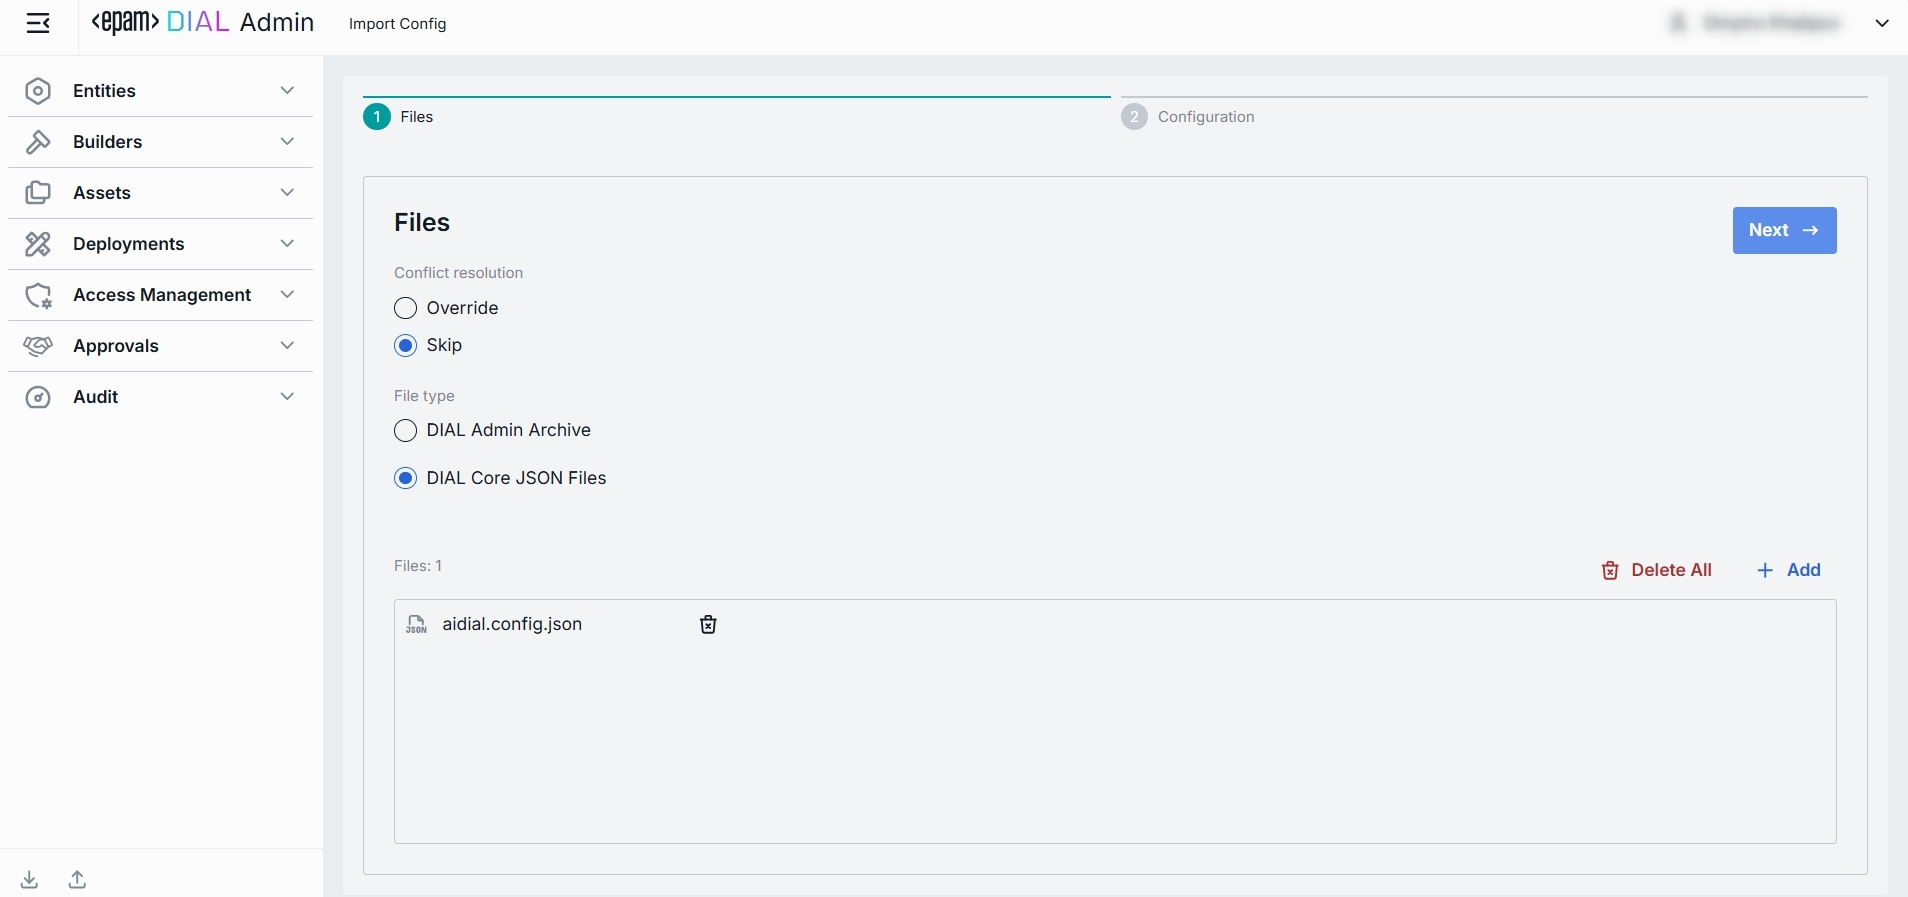
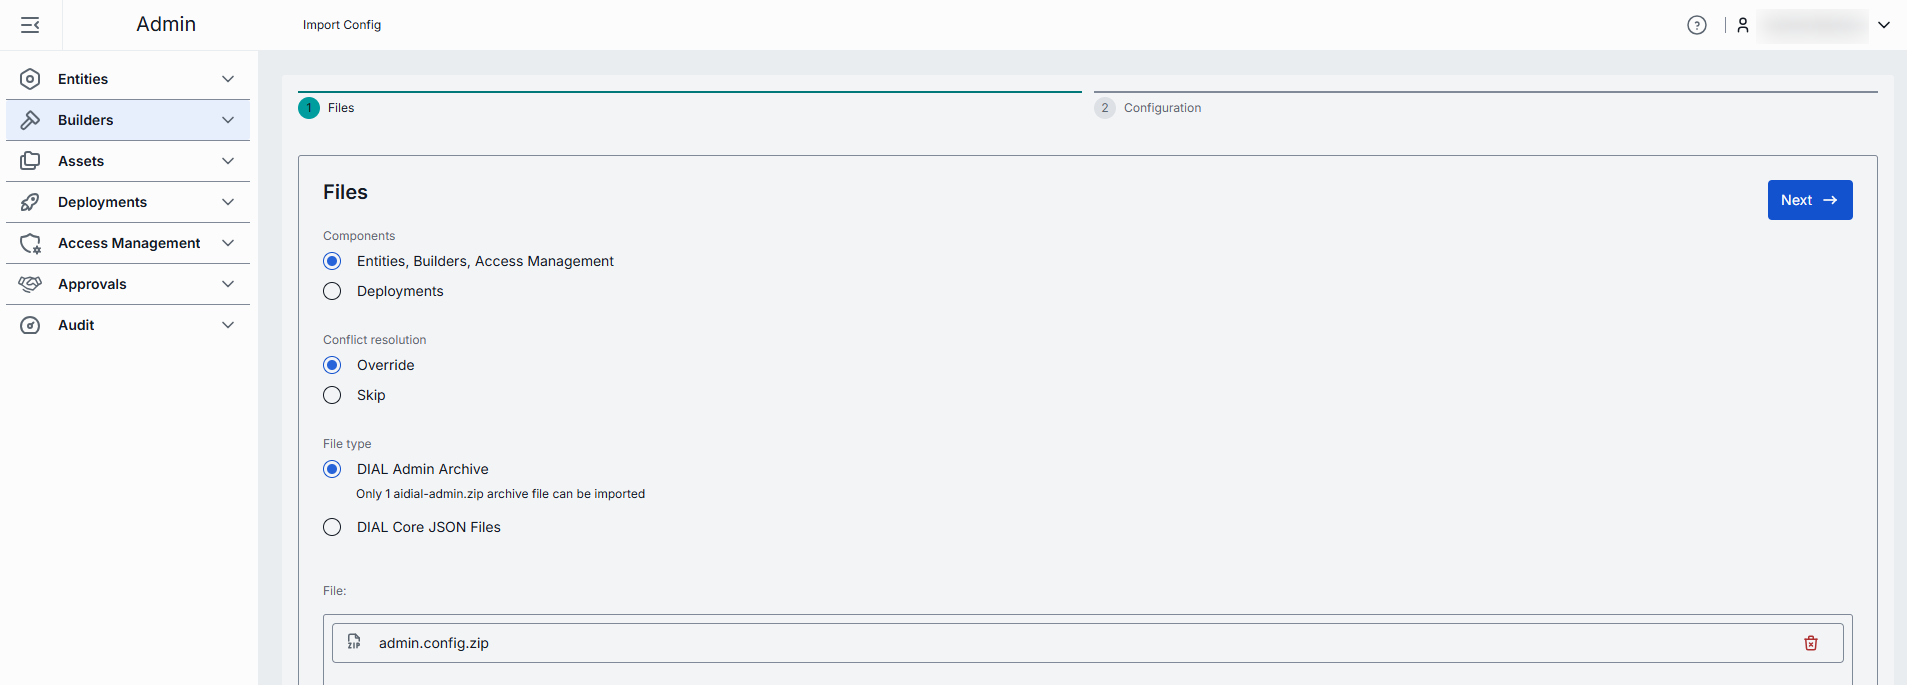
review home page

diff --git a/sidebars.js b/sidebars.js
@@ -511,8 +511,13 @@ const sidebars = {
               items: [
                 {
                   type: 'doc',
-                  id: 'tutorials/admin/home',
+                  id: 'tutorials/admin/introduction',
                   label: 'Introduction',
+                },
+                {
+                  type: 'doc',
+                  id: 'tutorials/admin/home',
+                  label: 'Home',
                 },
                 {
                   type: 'category',

diff --git a/docs/tutorials/3.admin/home.md b/docs/tutorials/3.admin/home.md
@@ -1,80 +1,62 @@
-# Introduction to DIAL Admin Panel
+# Home Page
 
-## About
+Welcome to the DIAL Admin Panel Home page — your central command center for managing and configuring your DIAL environment. 
 
-The DIAL Admin Panel provides system [administrators](#who-is-admin) a feature-rich, intuitive, and customizable UI to configure, manage, and monitor the DIAL ecosystem. 
+The Home page provides administrators with a comprehensive overview of the system and quick access to essential management functions.
 
-> Admin Panel serves as a powerful UI for administrators. System configurations can be done also by a direct modification of a [DIAL Core config](https://github.com/epam/ai-dial-core).
+- Shortcuts to the main sections and dashboards
+- Importing/exporting configurations for backup, migration, or sharing
+- Definition of global interceptors in system properties
+- Shortcut to the relevant DIAL Chat environment
+- Shortcut to system documentation portal
+- User settings
 
-> Watch a [video demo](/docs/video%20demos/4.dial-admin-panel.md).
+![ ](img/admin-home.png)
 
-### GitHub Repositories
+## Sections
 
-Admin Panel is licensed under the Apache License 2.0. 
+* [Entities](/docs/tutorials/3.admin/entities-models.md): In this section, you can configure all language models, applications, toolsets, interceptors and routes within the DIAL environment.
+* [Builders](/docs/tutorials/3.admin/builders-application-runners.md): In this section, you can add and configure application runners, model adapters and interceptor templates.
+* [Assets](/docs/tutorials/3.admin/assets-files.md): In this section, you can view, add, and manage public system resources such as applications, toolsets prompts and files.
+* [Deployments](/docs/tutorials/3.admin/deployments-images.md): In this section you can deploy and configure images and containers for Model Servings, MCPs, Interceptors and AI Model Adapters. 
+* [Access Management](/docs/tutorials/3.admin/access-management-roles.md): In this section, you can create and manage user groups, roles, API keys, and usage limits to implement access and cost control policy.
+* [Approvals](/docs/tutorials/3.admin/approvals-file-publications.md): In this section, you can view and manage publication requests submitted by DIAL users for applications, files and prompts.
+* [Audit](/docs/tutorials/3.admin/telemetry-dashboard.md): In this section, you can monitor real-time system usage, including token consumption, system load, and other telemetry data for performance tracking.
 
-It is developed in two separate repositories for frontend and backend components:
+## Import Config
 
-* [Frontend](https://github.com/epam/ai-dial-admin-frontend)
-* [Backend](https://github.com/epam/ai-dial-admin-backend)
-  
-### Who is Admin
+Use **Import Config** to upload a configuration file. Can be used for migrating between environments or restoring backups.
 
-System admin(s) can be defined in [DIAL Core static settings](https://github.com/epam/ai-dial-core?tab=readme-ov-file#static-settings) in the `access.admin.rules`. Admin has the following privileges:
+![ ](img/import-config.png)
 
-* Has `READ` and `WRITE` access to all public system resources (conversations, prompt, files, toolsets and applications).
-* Can view, approve and reject publication requests from DIAL users. 
-* Has access to all DIAL Core API endpoints.
 
-> Refer to [Access Control](/docs/platform/3.core/2.access-control-intro.md) to learn more about access control in DIAL and the role of a system administrator.
+1. Click **Import Config** to invoke the import screen.
+2. In the **Files** section, you can make the following selections:
 
-## Admin Panel Sections
+   ![](img/img_56.png)
 
-* **Entities**: In this section, you can configure all language models, applications, toolsets, interceptors and routes within the DIAL environment. Go to [Entities](/docs/tutorials/3.admin/entities-models.md) to learn more.
-* **Builders**: In this section, you can add and configure application runners, model adapters and interceptors. Go to [Builders](/docs/tutorials/3.admin/builders-application-runners.md) to learn more.
-* **Assets**: In this section, you can view, add, and manage public system resources such as applications, prompts and files. Go to [Assets](/docs/tutorials/3.admin/assets-files.md) to learn more.
-* **Access Management**: In this section, you can create and manage user groups, roles, API keys, and usage limits to implement access and cost control policy. Go to [Access Management](/docs/tutorials/3.admin/access-management-roles.md) to learn more.
-* **Approvals**: In this section, you can view and manage publication requests submitted by DIAL users for applications, files and prompts. Go to [Approvals](/docs/tutorials/3.admin/approvals-file-publications.md) to learn more.
-* **Audit**: In this section, you can monitor real-time system usage, including token consumption, system load, and other telemetry data for performance tracking. Go to [Dashboard](/docs/tutorials/3.admin/telemetry-dashboard.md) to learn more.
-
-## Home Screen
-
-The Home screen gives you a high-level overview of your environment and fast access to the most important actions and modules.
-
-![ ](img/img.png)
-
-* **Sidebar** is the main menu available at any page with access to every major DIAL Admin section.
-* **View our documentation** button opens the official [DIAL docs](https://docs.dialx.ai/) in a new tab. It's handy when you need an in-depth reference or look for details.
-* **Open DIAL** button opens https://chat.dialx.ai/ in a new tab, where you can try your apps , prompts, and models live.
-* **Site map** is a visual grid of cards you can use to navigate to a corresponding DIAL Admin section.
-
-### Import Config
-
-Use the **Import Config** button to upload a DIAL Core configuration file. Can be used for migrating between environments or restoring backups.
-
-![](img/img_56.png)
-
-1. **File type**: Either DIAL Core (_.json_) or Admin (_.zip_) format can be selected.
-2. **Conflict resolution**: You can choose between two conflict resolution options:
-   * **Override**: During the import process, any artifact in the archive that matches an existing artifact in DIAL by the identifier will **override** the existing artifact.
-   * **Skip**: Any artifact in the archive that matches an existing artifact in DIAL by the identifier will be **ignored**, and the existing artifact will remain unchanged.
-
-3. Click **Next** to preview the configuration to be imported:
+   - **Components**: Choose to import configuration of Deployments (Model Servings, Images, MCP, Interceptor and Adapter Containers) or Entities (Models, Applications, Toolsets, Interceptors, Routes), Builders (Application Runners, Adapters, Interceptor Templates) and Access Management configurations (API keys and Roles).
+   - **Conflict resolution**: To resolve possible conflicts between imported and existing files you can choose a conflict resolution strategy:
+         * **Override**: During the import process, any resource in the archive that matches an existing one by the identifier will **override** it.
+         * **Skip**: Any resource in the archive that matches the current one by the identifier will be **ignored**, and the current resource will remain unchanged.
+   - **File type**: Choose to import DIAL Core `.json` file or a`.zip` archive.
+3. Add a file or an archive in the File section and proceed with the **Configuration** step where you can preview all resources being imported.
 
    ![](img/img_56_1.png)
 
-4. Click **Compare changes** in the artefact row to view the differences between the artefact already in DIAL and the one being imported:
+4. For each resource, click **Compare changes** in the actions menu to compare current and a version to be imported:
 
-   ![](img/img_56_2.png)
+   ![](img/compare-changes.png)
 
 5. Click **Import** to start the import process.
 
-### Export Config
+## Export Config
 
 **Export Config** allows you to download the configuration of the current instance. Great for backups, audit snapshots, or sharing with teammates.
 
 ![](img/img_57.png)
 
-#### Export Deployments
+#### Deployments
 
 You can export configuration of the selected deployments (Model Servings, Images, MCP, Interceptor and Adapter Containers)
 
@@ -87,7 +69,7 @@ You can export configuration of the selected deployments (Model Servings, Images
 
 ![](img/export-deployments-config.png)
 
-#### Export Entities, Builders, Access Management
+#### Entities, Builders, Access Management
 
 You can export configuration of the selected Entities (Models, Applications, Toolsets, Interceptors, Routes), Builders (Application Runners, Adapters, Interceptor Templates) and Access Management configurations (API keys and Roles)
 
@@ -108,7 +90,7 @@ You can export configuration of the selected Entities (Models, Applications, Too
 
 ![](img/export-entities-config.png)
 
-### User Settings
+## User Settings
 
 Click your avatar (or name) in the top-right corner of the header to reveal the profile menu. Here, you can personalize your DIAL Admin experience and manage your session.
 
@@ -121,7 +103,7 @@ Click your avatar (or name) in the top-right corner of the header to reveal the 
 | **Settings** | Opens the User Settings modal where you can adjust personal preferences. Here you can choose a UI theme.|
 | **Log out**  | Ends your session and returns you to the login screen.                   |
 
-### System Properties
+## System Properties
 
 Click the **Globe** icon in the footer or in Quick Actions on the home page to open the System Properties screen. Here, you can add and configure global interceptors. Global interceptors apply to any deployment (applications and models) in DIAL and tend to have the most strict rules, because they receive original input first and examine the response last.
 
@@ -137,3 +119,6 @@ Click the **Globe** icon in the footer or in Quick Actions on the home page to o
 4. Click **Save** on the System Properties screen to apply changes or **Discard** to cancel all unsaved actions.
 
 > When a global interceptor is added, its status in [Entities/Interceptors](/docs/tutorials/3.admin/entities-interceptors.md) changes to **Global** and you can also see it listed under the Global Interceptors tab in configuration of any application or model. 
+
+## DIAL Core Version
+

diff --git a/docs/tutorials/3.admin/introduction.md b/docs/tutorials/3.admin/introduction.md
@@ -1,0 +1,28 @@
+# Introduction to DIAL Admin Panel
+
+## About
+
+The DIAL Admin Panel provides system [administrators](#who-is-admin) a feature-rich, intuitive, and customizable UI to configure, manage, and monitor the DIAL ecosystem. 
+
+> Admin Panel serves as a powerful UI for administrators. System configurations can be done also by a direct modification of a [DIAL Core config](https://github.com/epam/ai-dial-core).
+
+> Watch a [video demo](/docs/video%20demos/4.dial-admin-panel.md).
+
+## GitHub Repositories
+
+Admin Panel is licensed under the Apache License 2.0. 
+
+It is developed in two separate repositories for frontend and backend components:
+
+* [Frontend](https://github.com/epam/ai-dial-admin-frontend)
+* [Backend](https://github.com/epam/ai-dial-admin-backend)
+  
+## Who is Admin
+
+System admin(s) can be defined in [DIAL Core static settings](https://github.com/epam/ai-dial-core?tab=readme-ov-file#static-settings) in the `access.admin.rules`. Admin has the following privileges:
+
+* Has `READ` and `WRITE` access to all public system resources (conversations, prompt, files, toolsets and applications).
+* Can view, approve and reject publication requests from DIAL users. 
+* Has access to all DIAL Core API endpoints.
+
+> Refer to [Access Control](/docs/platform/3.core/2.access-control-intro.md) to learn more about access control in DIAL and the role of a system administrator.
